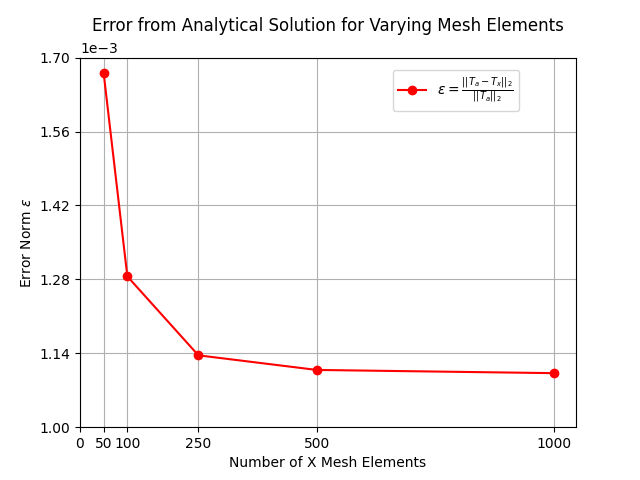
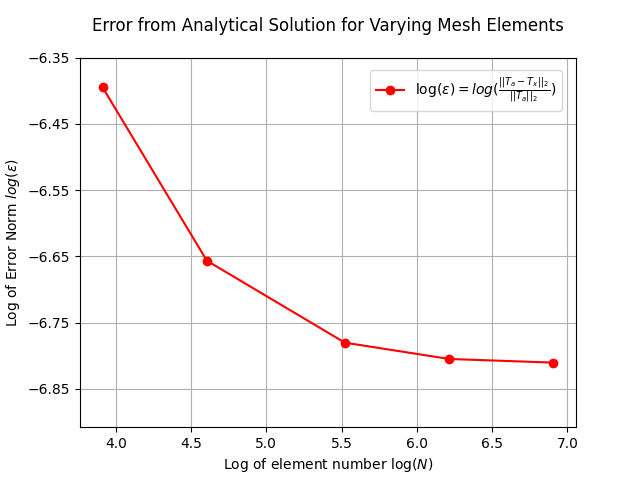
should be linear plot. may be limited by monte carlo. TODO rerun for various trigger tightnesses and plot all on one figure

diff --git a/visualization/visualize_results.py b/visualization/visualize_results.py
@@ -8,23 +8,23 @@ n_elems = [50,100,250,500,1000]
 
 # mesh size vs error
 # collect error norm data
-norms = []
+log_norms = []
 for n in n_elems:
     filename = 'openmc_' + str(n) + '_out.csv'
     df = pd.read_csv(filename)
     last_val  = df.iloc[len(df)-1,-1]
-    norms.append(last_val)
+    log_norms.append(np.log(last_val))
 
+log_N = np.log(n_elems)
 # plot element size vs computed error
-plt.plot(n_elems,norms,'-ro',label=r'$\epsilon=\frac{||T_{a}-T_{x}||_{2}}{||T_{a}||_{2}}$')
-plt.xticks([0,50,100,250,500,1000])
-plt.yticks(np.linspace(0.0010,0.0017,6))
-# plt.yticks(np.linspace(0.0010,0.0017,5))
-plt.ticklabel_format(axis='y', style='sci', scilimits=(0,0))
-plt.xlabel('Number of X Mesh Elements')
-plt.ylabel('Error Norm $\epsilon$')
+plt.plot(log_N,log_norms,'-ro',label=r'$\log(\epsilon)=log(\frac{||T_{a}-T_{x}||_{2}}{||T_{a}||_{2}})$')
+plt.yticks(np.log(np.linspace(0.0010,0.0017,6)))
+plt.yticks(np.linspace(-6.35,-6.85,6))
+# plt.ticklabel_format(axis='y', style='sci', scilimits=(0,0))
+plt.xlabel('Log of number of X elements $\log(N)$')
+plt.ylabel('Log of Error Norm $log(\epsilon)$')
 plt.title('Error from Analytical Solution for Varying Mesh Elements',y=1.05)
-plt.legend(bbox_to_anchor=[0.9,0.985])
+plt.legend(bbox_to_anchor=[0.985,0.985])
 plt.grid()
 plt.savefig('error_study.png')
 plt.clf()
